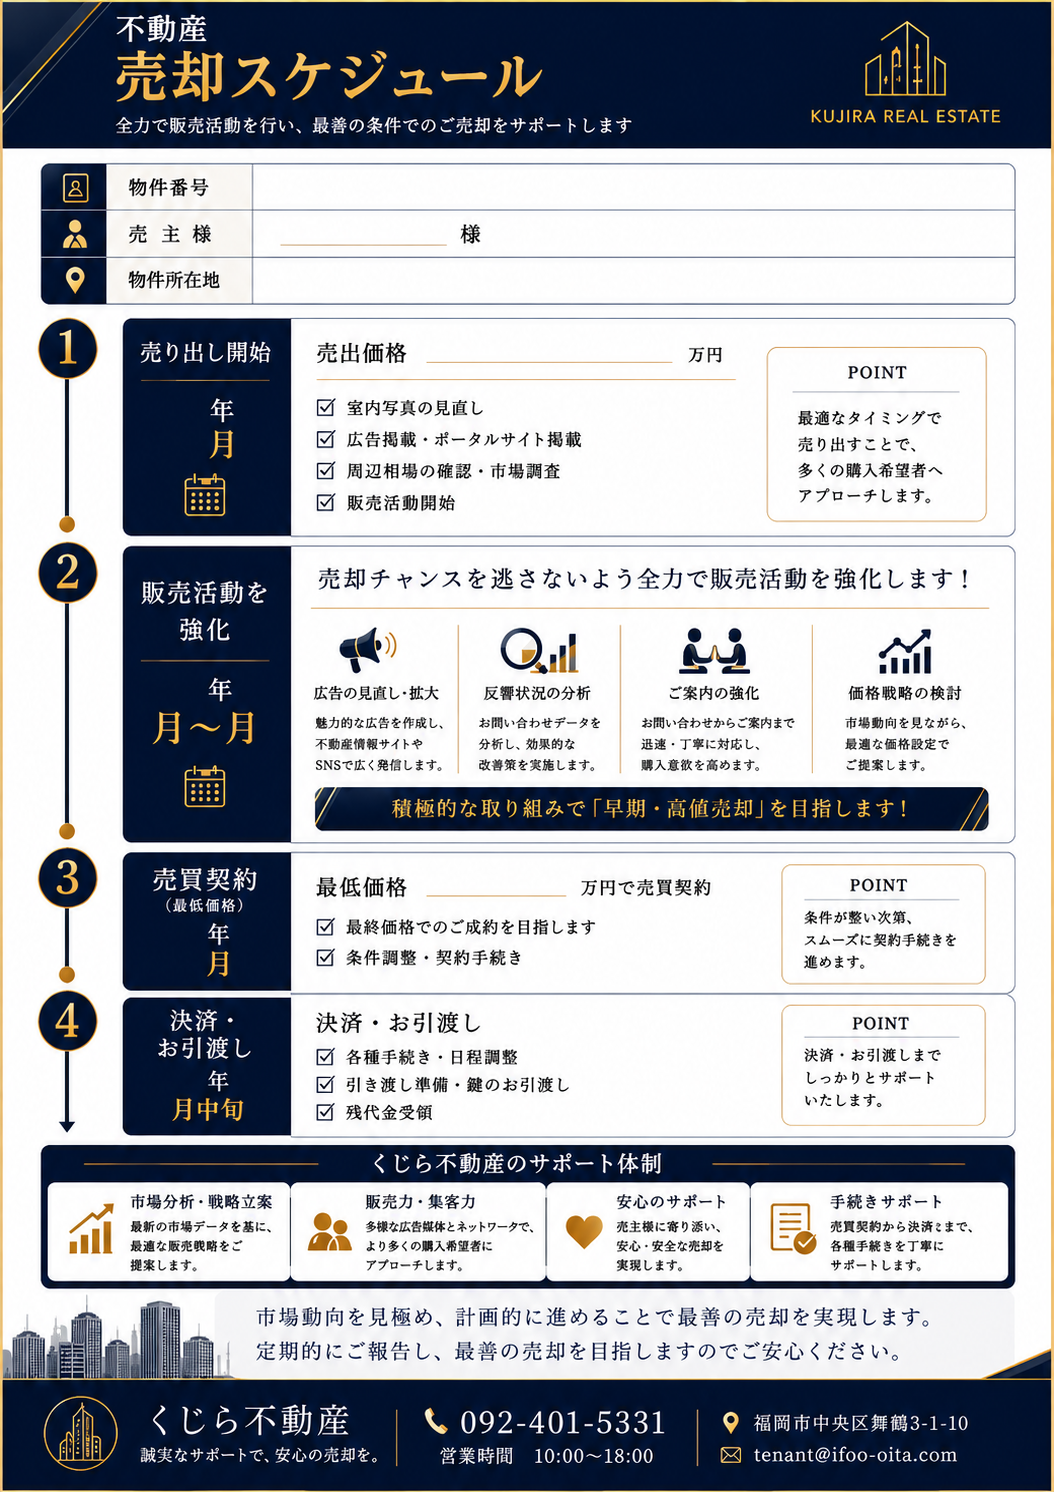
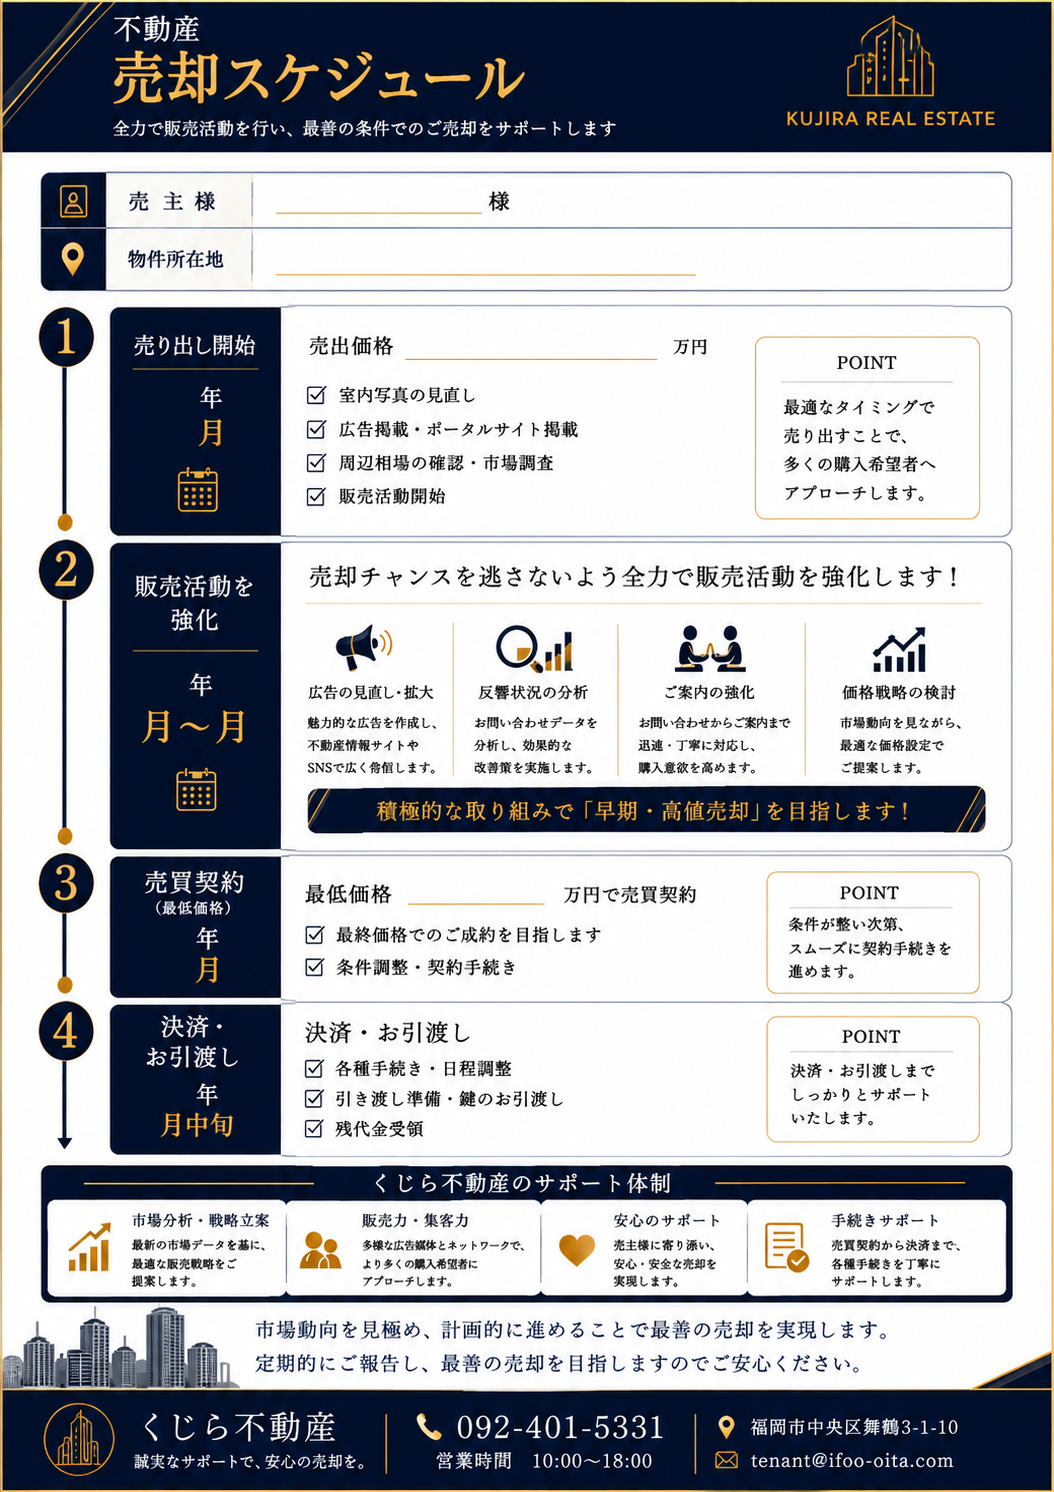
fix: 売却スケジュール - 新テンプレート(物件番号欄なし)に合わせBOX座標再計測

Changed region(s): [[0.0, 0.0, 1.0, 1.0], [0.9715, 0.9866, 1.0, 1.0], [0.0, 0.9866, 0.0304, 1.0]]

diff --git a/frontend/frontend/src/components/SaleScheduleModal.tsx b/frontend/frontend/src/components/SaleScheduleModal.tsx
@@ -50,34 +50,34 @@ import api from '../services/api';
 // BOX座標定数（ここだけ変更すればOK）
 // ─────────────────────────────────────────
 const BOXES = {
-  // 売主名（「様」は背景画像に印刷済み → 氏名のみ表示）
-  ownerName:    { left: 56, top: 33.0, w: 90,  h: 6.0 },
+  // 売主名（新テンプレート：物件番号欄なし → 1行目が売主様）
+  ownerName:    { left: 56, top: 28.5, w: 92,  h: 6.0 },
 
-  // 物件所在地
-  address:      { left: 56, top: 41.0, w: 140, h: 9.0 },
+  // 物件所在地（2行目）
+  address:      { left: 56, top: 36.5, w: 140, h: 9.0 },
 
   // 売出価格（数値のみ・「万円」は背景画像）
-  listPrice:    { left: 81, top: 65.0, w: 48,  h: 7.0 },
+  listPrice:    { left: 81, top: 65.5, w: 48,  h: 7.0 },
 
-  // STEP1
-  step1Year:    { left: 21, top: 76.5, w: 34,  h: 5.0 },
-  step1Month:   { left: 21, top: 82.5, w: 34,  h: 9.5 },
+  // STEP1：左側濃紺BOX内
+  step1Year:    { left: 19, top: 81.0, w: 36,  h: 5.5 },
+  step1Month:   { left: 19, top: 87.5, w: 36,  h: 10.5 },
 
-  // STEP2
-  step2Year:    { left: 21, top: 120.5, w: 34, h: 5.0 },
-  step2StartM:  { left: 21, top: 127.0, w: 16, h: 9.0 },
-  step2EndM:    { left: 40, top: 127.0, w: 16, h: 9.0 },
+  // STEP2：左側濃紺BOX内
+  step2Year:    { left: 19, top: 128.5, w: 36, h: 5.5 },
+  step2StartM:  { left: 19, top: 135.0, w: 17, h: 9.5 },
+  step2EndM:    { left: 38, top: 135.0, w: 17, h: 9.5 },
 
   // 最低価格（数値のみ・「万円で売買契約」は背景画像）
-  minPrice:     { left: 81, top: 159.5, w: 45, h: 7.0 },
+  minPrice:     { left: 81, top: 160.0, w: 45, h: 7.0 },
 
-  // STEP3
-  step3Year:    { left: 21, top: 164.5, w: 34, h: 5.0 },
-  step3Month:   { left: 21, top: 170.5, w: 34, h: 9.0 },
+  // STEP3：左側濃紺BOX内
+  step3Year:    { left: 19, top: 165.0, w: 36, h: 5.5 },
+  step3Month:   { left: 19, top: 171.5, w: 36, h: 9.5 },
 
-  // STEP4
-  step4Year:    { left: 21, top: 196.5, w: 34, h: 5.0 },
-  step4Month:   { left: 21, top: 202.5, w: 34, h: 7.5 },
+  // STEP4：左側濃紺BOX内
+  step4Year:    { left: 19, top: 196.0, w: 36, h: 5.5 },
+  step4Month:   { left: 19, top: 202.5, w: 36, h: 8.0 },
 } as const;
 
 // ─────────────────────────────────────────
